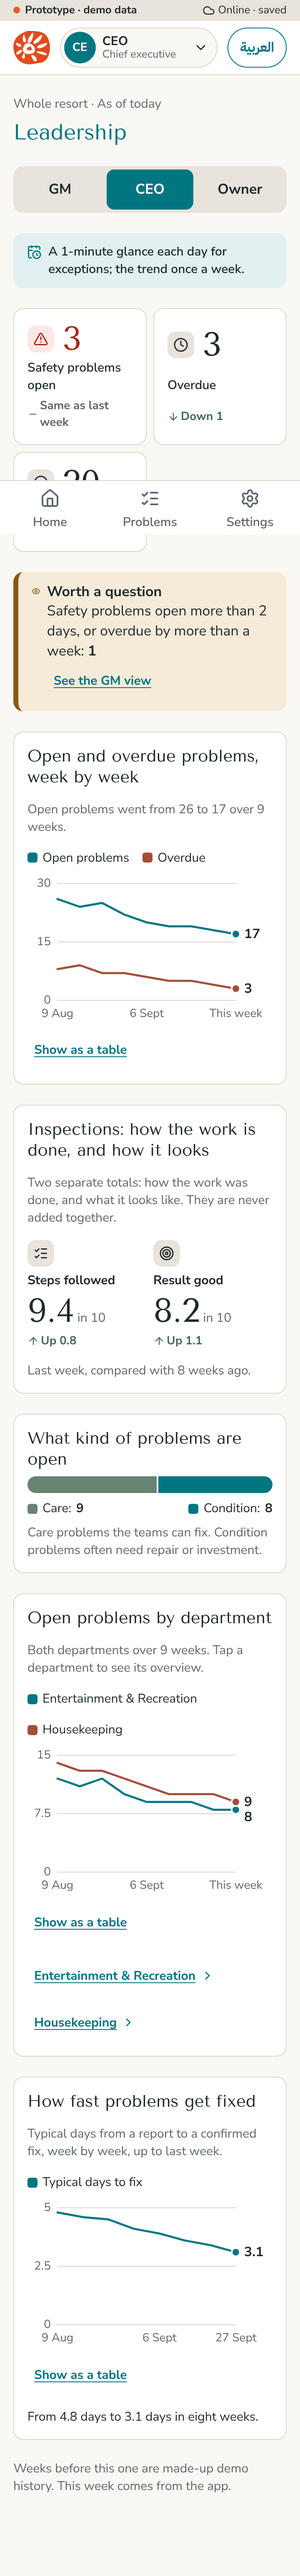
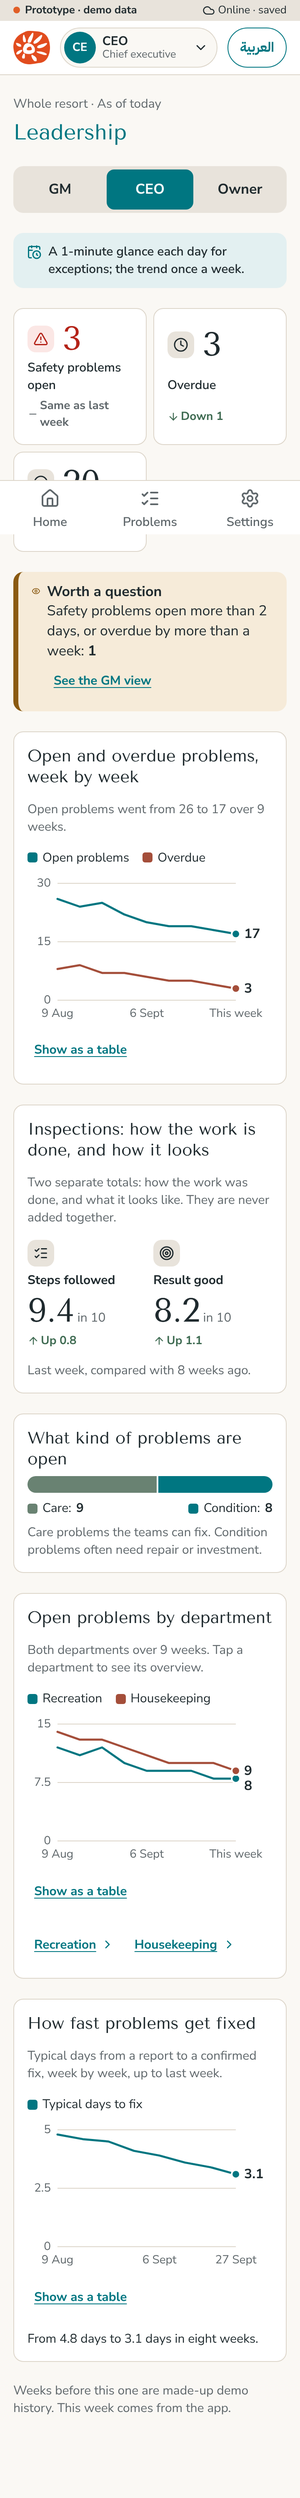
Use Desert Rose's own titles: Director of Recreation for pools and beach; Pool & beach attendant
Claude-Session: https://claude.ai/code/session_01LXgLaxXptJm5oQcshmzJHy

diff --git a/README.md b/README.md
@@ -63,7 +63,7 @@ Before the demo: open **Settings → Reset demo data**. Stay in English, or swit
 2. Point out: old and renovated areas apart, condition and care apart, and the repeat at Room 5212.
 3. Tap the **Safety** tile. The list shows safety problems first. Open **Broken tiles inside the pool** (Zaitouna Pool): the interim note *Area roped off* sits at the top.
 
-**Directors (optional, 1 minute)** Pick **Amr** (Director of Entertainment) or **Rania** (Director of Housekeeping). Their home is the department overview, looked at every morning and in the weekly department meeting: safety, today's checklists (done, sent back, not started), fixes nobody has checked for over a day, how long open problems have waited, where problems cluster, the 9-week trend, typical days to fix, both inspection totals, and the department's capex items. Counts are by place and kind, never by person. The managers Tarek and Laila report to them.
+**Directors (optional, 1 minute)** Pick **Amr** (Director of Recreation) or **Rania** (Director of Housekeeping). Their home is the department overview, looked at every morning and in the weekly department meeting: safety, today's checklists (done, sent back, not started), fixes nobody has checked for over a day, how long open problems have waited, where problems cluster, the 9-week trend, typical days to fix, both inspection totals, and the department's capex items. Counts are by place and kind, never by person. The managers Tarek and Laila report to them.
 
 **Leadership page (optional, 1 minute)** Pick **Samir** and tap **Leadership view**, or pick **CEO** or **Owner** from the name menu. Three tabs show what each person looks at, and how often:
 - **GM**, every morning: safety now; each department today, with places not started and a link to each department overview; overdue problems that need a push; fixes nobody has checked; how long problems have waited; where problems cluster; inspections this week.
